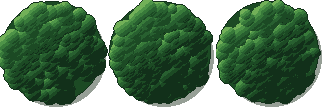
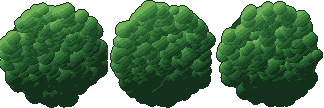
Trees seen 3/4: a round trunk with roots, a canopy lit from above
The flat rectangle trunk (the cardboard look) becomes a trunk drawn a row at a time,
rounded by shading, tapering, flaring into roots, with bark grooves. Canopies are
redrawn lit from above with a shaded underside and no sideways drop shadow; a round
shadow sits on the ground under the tree instead.

diff --git a/tools/make_art.py b/tools/make_art.py
@@ -127,35 +127,32 @@ def paving_tile(seed):
 # ---------------------------------------------------------------- trees
 
 def canopy(d, seed):
-    """Round tree canopy seen from above, d px across, built from leaf clumps,
-    with a soft shadow falling down-right onto the grass."""
+    """A tree's canopy seen 3/4, d px across: leaf clumps lit from above, a shaded
+    underside, a broken outline. No shadow: tree.gd lays that on the ground."""
     import math
     r = random.Random(seed)
     pad = 8
     c = Canvas(d + pad, d + pad)
-    cx = cy = (d + 4) / 2
-    R = d / 2
-    shadow = hexc("0c200c", 110)
-    c.ellipse(cx + 4, cy + 5, R, R, shadow)
-    c.ellipse(cx, cy, R, R, LEAF[1])
+    cx = cy = (d + pad) / 2
+    R = d / 2 - 1
+    c.ellipse(cx, cy, R - 2, R - 2, LEAF[1])
     clumps = []
-    for _ in range(int(d * 2.2)):
+    for _ in range(int(d * 2.4)):
         a = r.random() * 6.283
-        dist = (r.random() ** 0.5) * (R - 3.5)
-        clumps.append((cx + math.cos(a) * dist, cy + math.sin(a) * dist, r.uniform(3.5, 6.5) * d / 72))
-    # Paint back-to-front: lower-right (shadowed) clumps first, top-left last.
-    clumps.sort(key=lambda t: -(t[0] + t[1]))
+        dist = (r.random() ** 0.45) * (R - 2)
+        clumps.append((cx + math.cos(a) * dist, cy + math.sin(a) * dist, r.uniform(3.5, 6.5) * max(1.0, d / 72)))
+    # Paint bottom first, top last, so the lit upper clumps sit over the shaded ones.
+    clumps.sort(key=lambda t: -t[1])
     for x, y, rr in clumps:
-        up = (-(x - cx) * 0.6 - (y - cy) * 0.8) / R
-        shaded_ellipse(c, x, y, rr, rr, LEAF, bias=up * 0.3 - 0.05)
-    # Outline only the canopy, not the shadow.
+        up = (-(x - cx) * 0.35 - (y - cy) * 0.95) / R      # -1 underside .. 1 top
+        bias = up * 0.35 - (0.25 if y > cy + R * 0.45 else 0.0)
+        shaded_ellipse(c, x, y, rr, rr, LEAF, bias=bias)
     edge = []
     for y in range(c.h):
         for x in range(c.w):
-            if c.px[y][x] == shadow or c.px[y][x][3] == 0:
+            if c.px[y][x][3] == 0:
                 for dx, dy in ((1, 0), (-1, 0), (0, 1), (0, -1)):
-                    n = c.get(x + dx, y + dy)
-                    if n[3] == 255 and n != shadow:
+                    if c.get(x + dx, y + dy)[3] == 255:
                         edge.append((x, y))
                         break
     for x, y in edge:

diff --git a/NOTES.md b/NOTES.md
@@ -72,7 +72,8 @@ the biggest open question); 46 is buildable any time.
    (the drive is 40% shorter; lawn behind the lower garage), only ground-floor windows
    smashable; (2) DONE (S6): fences, hedges, truck and trailer 3/4 (54 went with it), the
    front run fades while you're behind it; (3) DONE (S6): depth sorting, checked in
-   screenshots behind/in front of a trunk, the garage, the truck and the customer; (4) trees with trunks; (5) mowers, the player on foot and critters drawn per
+   screenshots behind/in front of a trunk, the garage, the truck and the customer; (4) DONE (S6): trees 3/4, a round shaded trunk
+   with roots, canopies lit from above; (5) mowers, the player on foot and critters drawn per
    facing direction, the sprite no longer rotated: 8 facings (the dev's call, S6).
 
 ### Notes 2026-09-25b (session 4 play checks)
